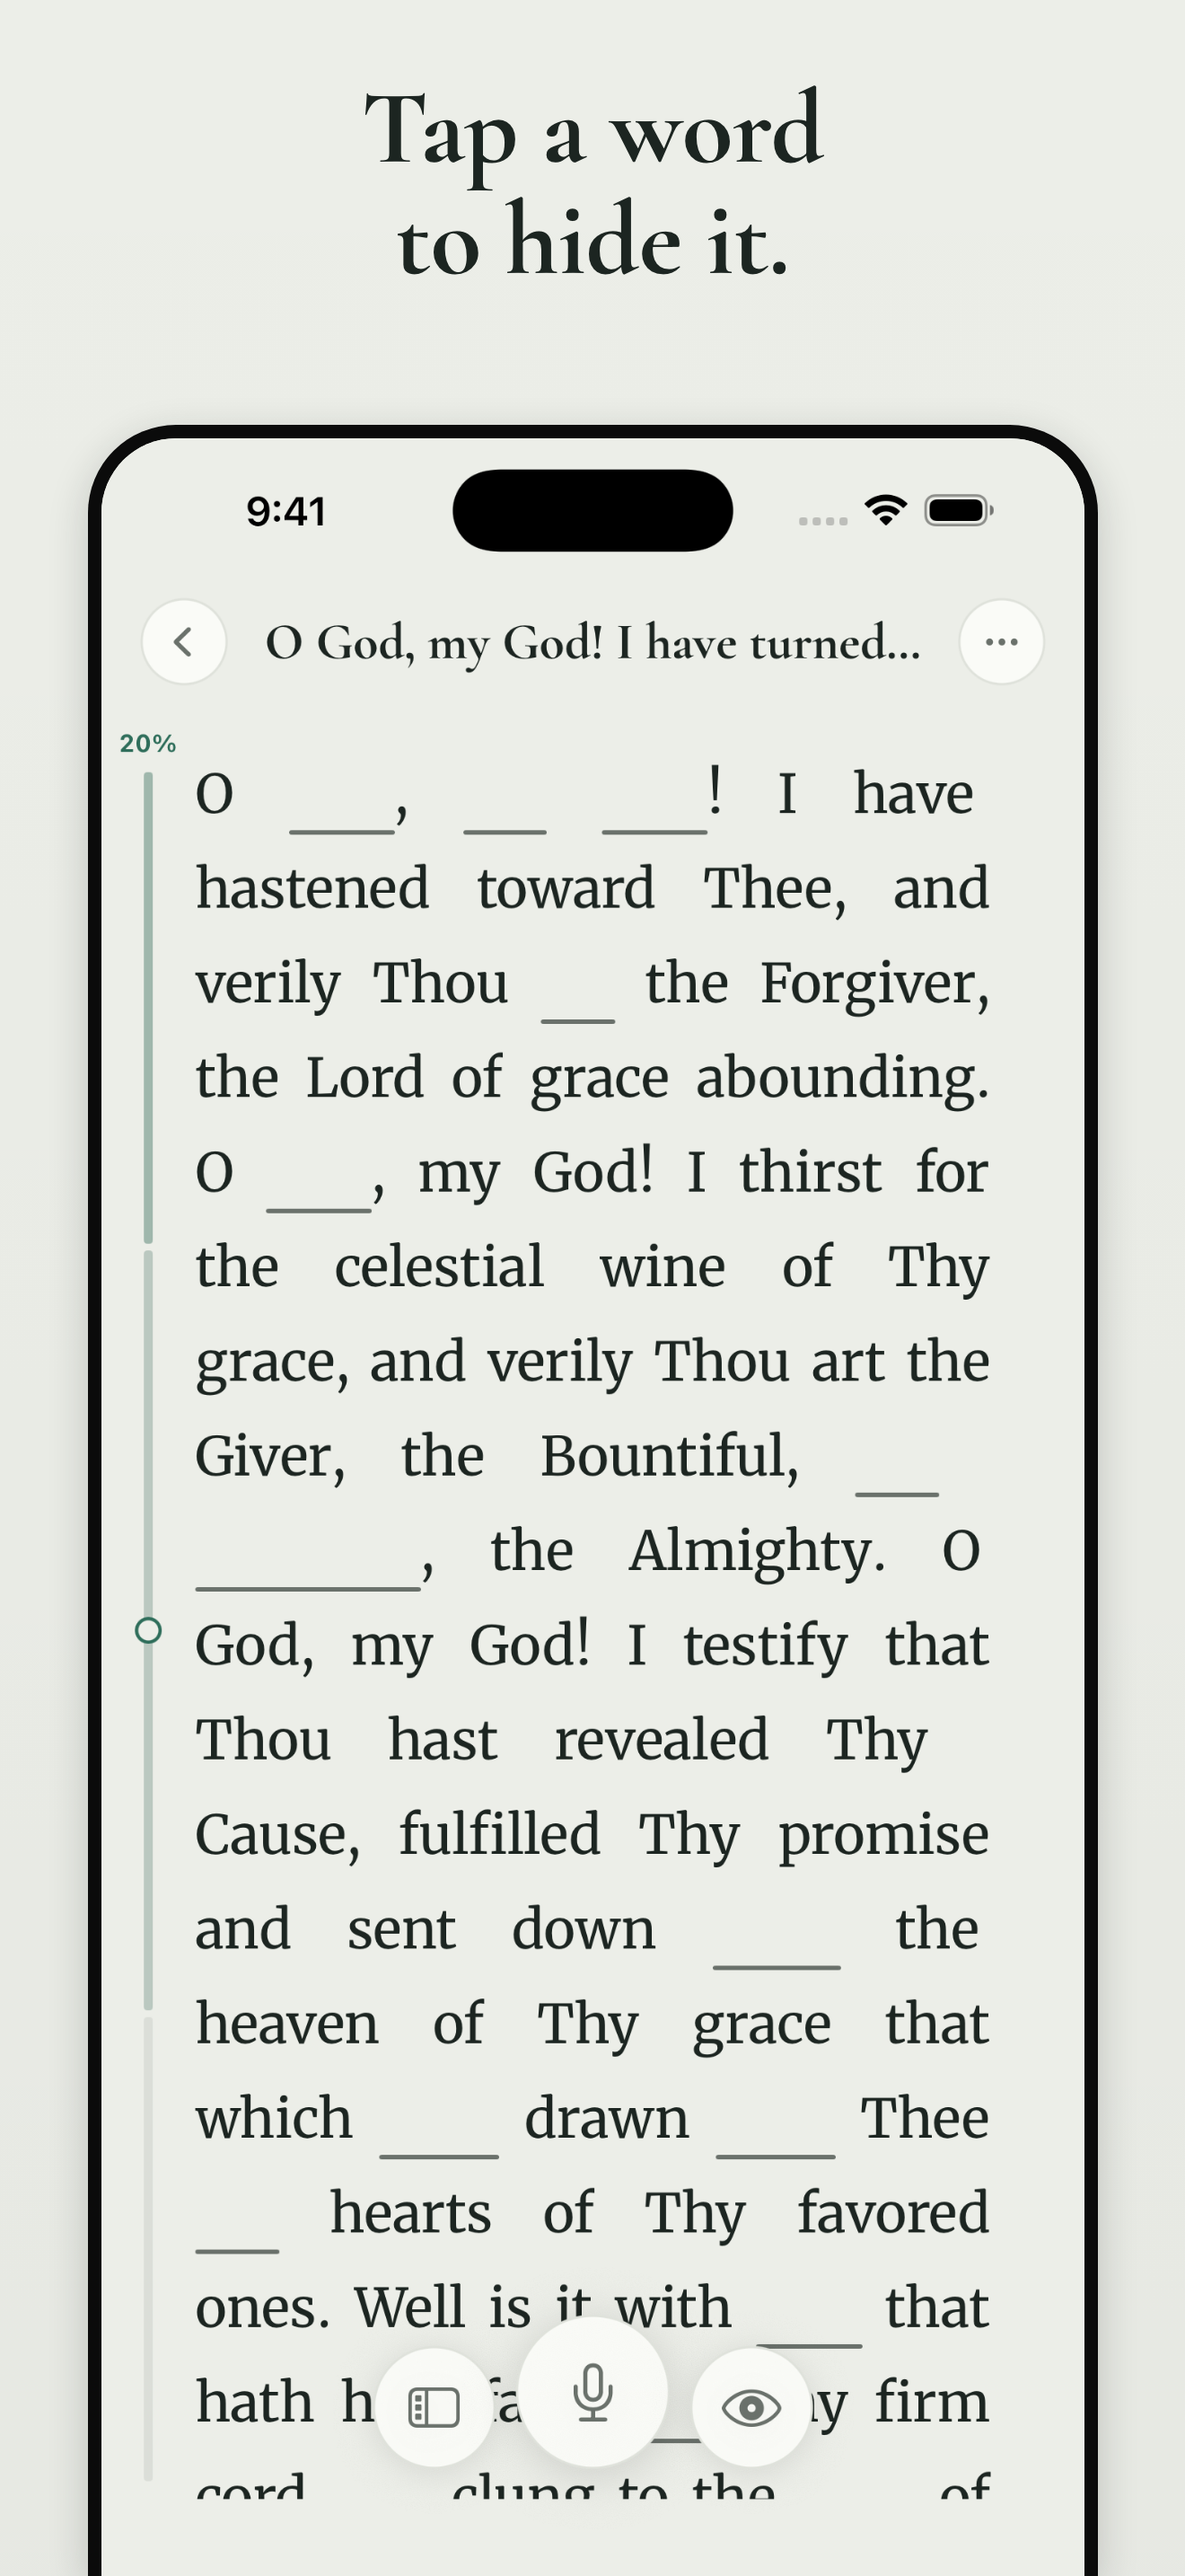
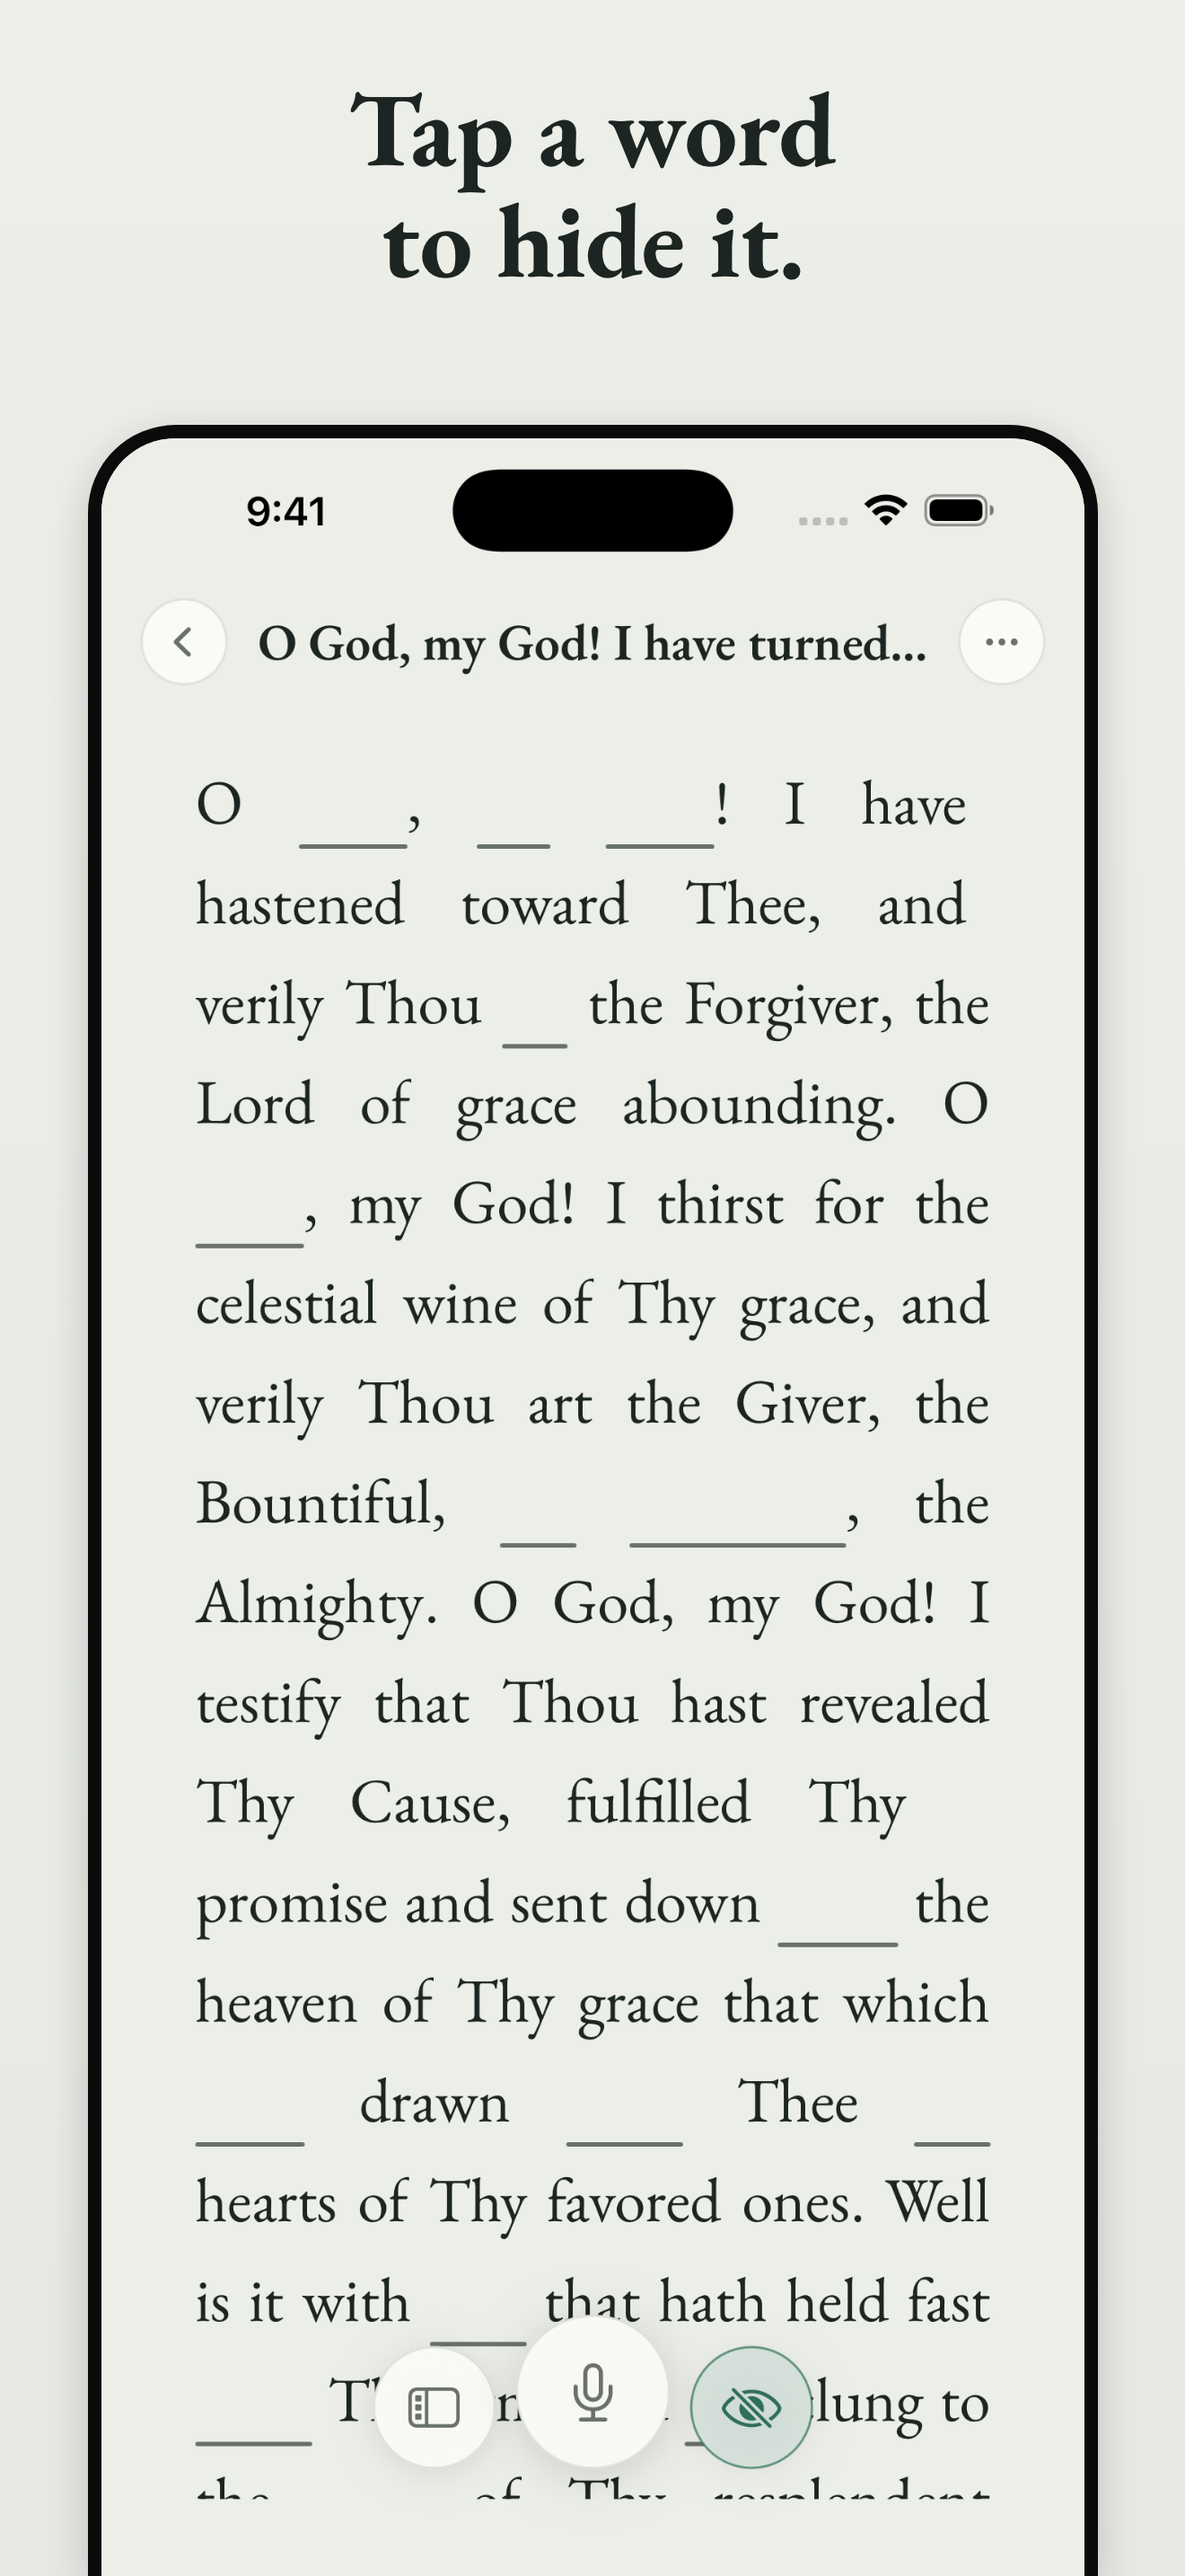
Write the 1.8 notes and reshoot the store tiles
The whole app changed face, so every uploaded tile was stale. Reshooting also
turned up two things the release broke: the frame generator still loaded
Cormorant for its headline, and a session no longer hides anything on its own,
so each hide tile has to tap the eye before the picture is taken.

diff --git a/MemorizationGame/Feature/ReleaseNotes/ReleaseNotes.swift b/MemorizationGame/Feature/ReleaseNotes/ReleaseNotes.swift
@@ -19,6 +19,37 @@ struct ReleaseNote: Identifiable {
 enum ReleaseNotes {
     static let all: [ReleaseNote] = [
         ReleaseNote(
+            version: "1.8",
+            headline: "New letters, and one clear way to hide a word.",
+            highlights: [
+                ReleaseHighlight(
+                    symbol: "textformat",
+                    title: "A new look",
+                    text: "The prayers are drawn in a new letter shape, and the lines sit closer together, so you can see more of a prayer at once."
+                ),
+                ReleaseHighlight(
+                    symbol: "minus",
+                    title: "A line where a word was",
+                    text: "Hide a word and a small line stays in its place. Tap the line to bring the word back, and tap any word to hide it."
+                ),
+                ReleaseHighlight(
+                    symbol: "eye",
+                    title: "Look at what is hidden",
+                    text: "Tap the eye next to the microphone to see every hidden word. Tap it again, or touch any word, to hide them once more."
+                ),
+                ReleaseHighlight(
+                    symbol: "sidebar.squares.leading",
+                    title: "The side bar rests",
+                    text: "The thin bar at the left of a prayer fades away while you read, and comes back as soon as you move the page."
+                ),
+                ReleaseHighlight(
+                    symbol: "book",
+                    title: "Your prayers in groups",
+                    text: "The prayers you are learning now sit together under their own heading, with the ones you have put away below them."
+                )
+            ]
+        ),
+        ReleaseNote(
             version: "1.7",
             headline: "Prayers are easier to read and move through.",
             highlights: [

diff --git a/Design/StoreFrames/generate_store_frames.py b/Design/StoreFrames/generate_store_frames.py
@@ -175,7 +175,7 @@ def build_page(tile, device):
 
     return PAGE.format(
         w=width, h=height,
-        display_font=(FONTS / "CormorantGaramond-Bold.ttf").as_uri(),
+        display_font=(FONTS / "EBGaramond-Bold.ttf").as_uri(),
         ground=theme["ground"], ink=theme["ink"], muted=theme["muted"],
         bezel=theme["bezel"], shadow=theme["shadow"], rim=theme["rim"],
         lift=0.022 if tile.get("theme") != "dark" else 0.0,

diff --git a/store-screenshots/README.md b/store-screenshots/README.md
@@ -30,6 +30,11 @@ Every raw here feeds a tile; there are no spares left. The iPad has no dark capt
 override. There is no iPad recitation tile — the raw was never shot there, so it is skipped
 the same way the later session stage already is.
 
+A session now opens with every word showing — hiding is what the eye button does, not what
+entering a session does. So the two hide tiles and the recitation tile are each shot by
+tapping the eye (`drive.tap("Show")`) once the session has settled, and only then taking
+the picture. Without that tap the page photographs as plain prose with nothing hidden.
+
 Two captures are stage-dependent and must be reshot as a pair if the hero passage changes:
 `2-hide-words.png` from the default seed and `9-hide-more.png` from `HERO_LATE=1`, which
 hides 50% of the same chunk instead of 15%. `HERO_LATE` deliberately leaves the later
@@ -124,7 +129,9 @@ Then drive it:
 import drive, time
 drive.shot("1-library.png")
 drive.tap("I have turned in repentance", pause=2)
-time.sleep(6)                              # let the 1.4s grounding reveal finish
+time.sleep(7)                              # let the session settle on its section
+drive.tap("Show", pause=2)                 # the eye: hide what the seed marked
+time.sleep(2)
 drive.shot("2-hide-words.png")
 ```
 

diff --git a/store-listing.md b/store-listing.md
@@ -46,6 +46,17 @@ QUIET BY DESIGN
 
 Verses is built around one belief: memorization isn't a test to pass, it's a way of carrying words with you. Hide what you know. Read what you don't. Come back tomorrow.
 
+## What's New — 1.8 (4000)
+Verses reads in a new typeface. Prayers, headings, and the writings all share it, and the reading page now holds more of the passage at once, at whichever text size you've chosen.
+
+Hidden words work one way now. A hidden word leaves a line where it was, and tapping any word hides or reveals it straight away. The eye beside the microphone shows everything hidden for as long as you want to look.
+
+The bar down the left edge fades away while you read, and comes back when you move.
+
+Your library keeps the prayers you're memorizing under their own heading, with Archived below it.
+
+Small fixes and refinements.
+
 ## What's New — 1.7 (4000)
 Moving through a prayer is now a swipe. Pull up past the end of a section to go on, down past the top to go back. A slim bar down the left edge shows how far you've come, and tapping it jumps you anywhere in the passage.
 
